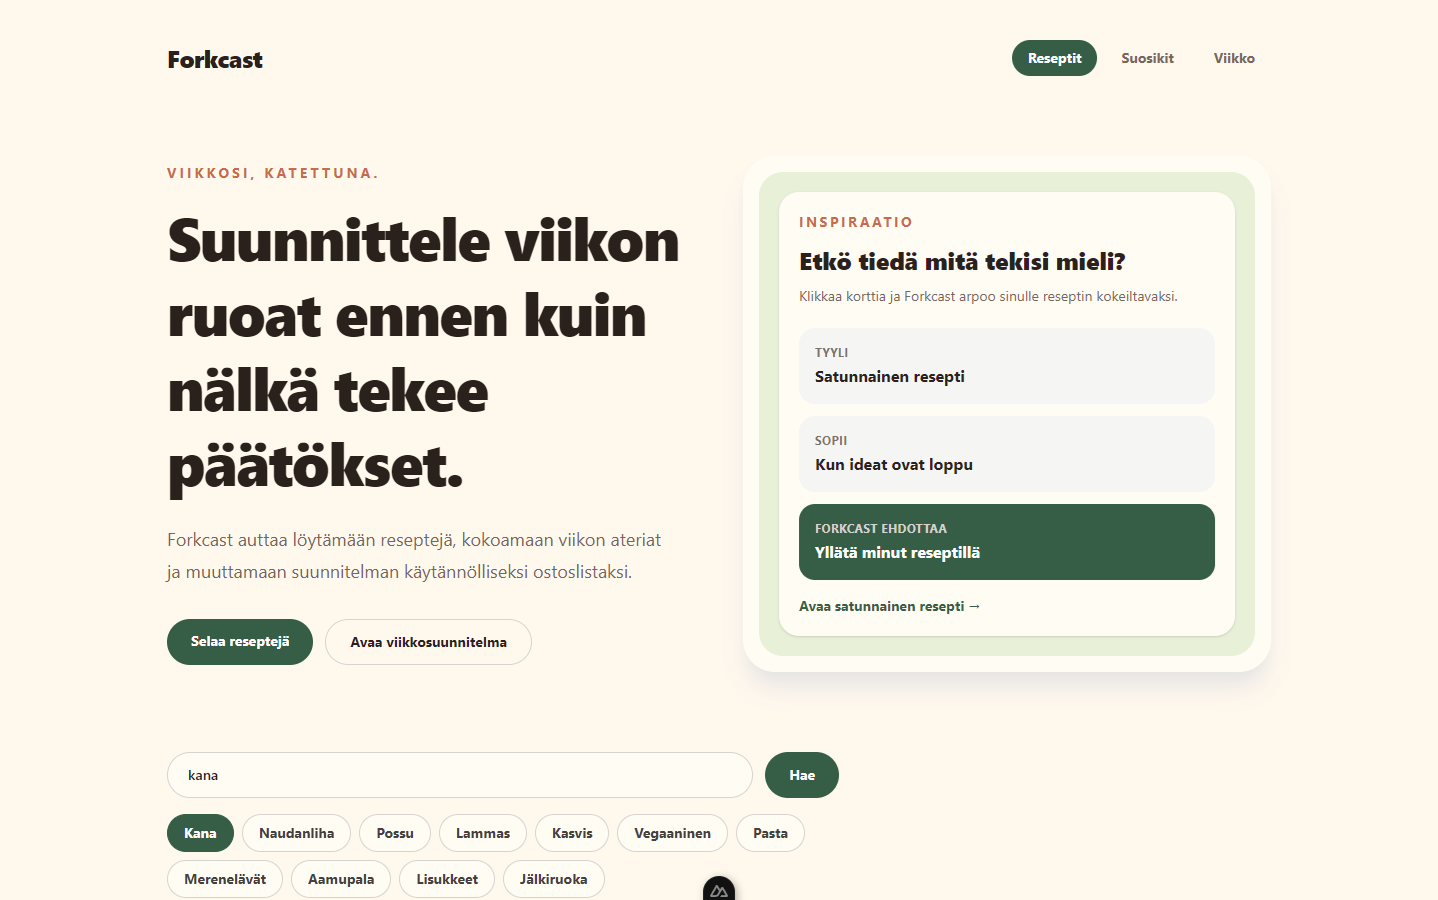
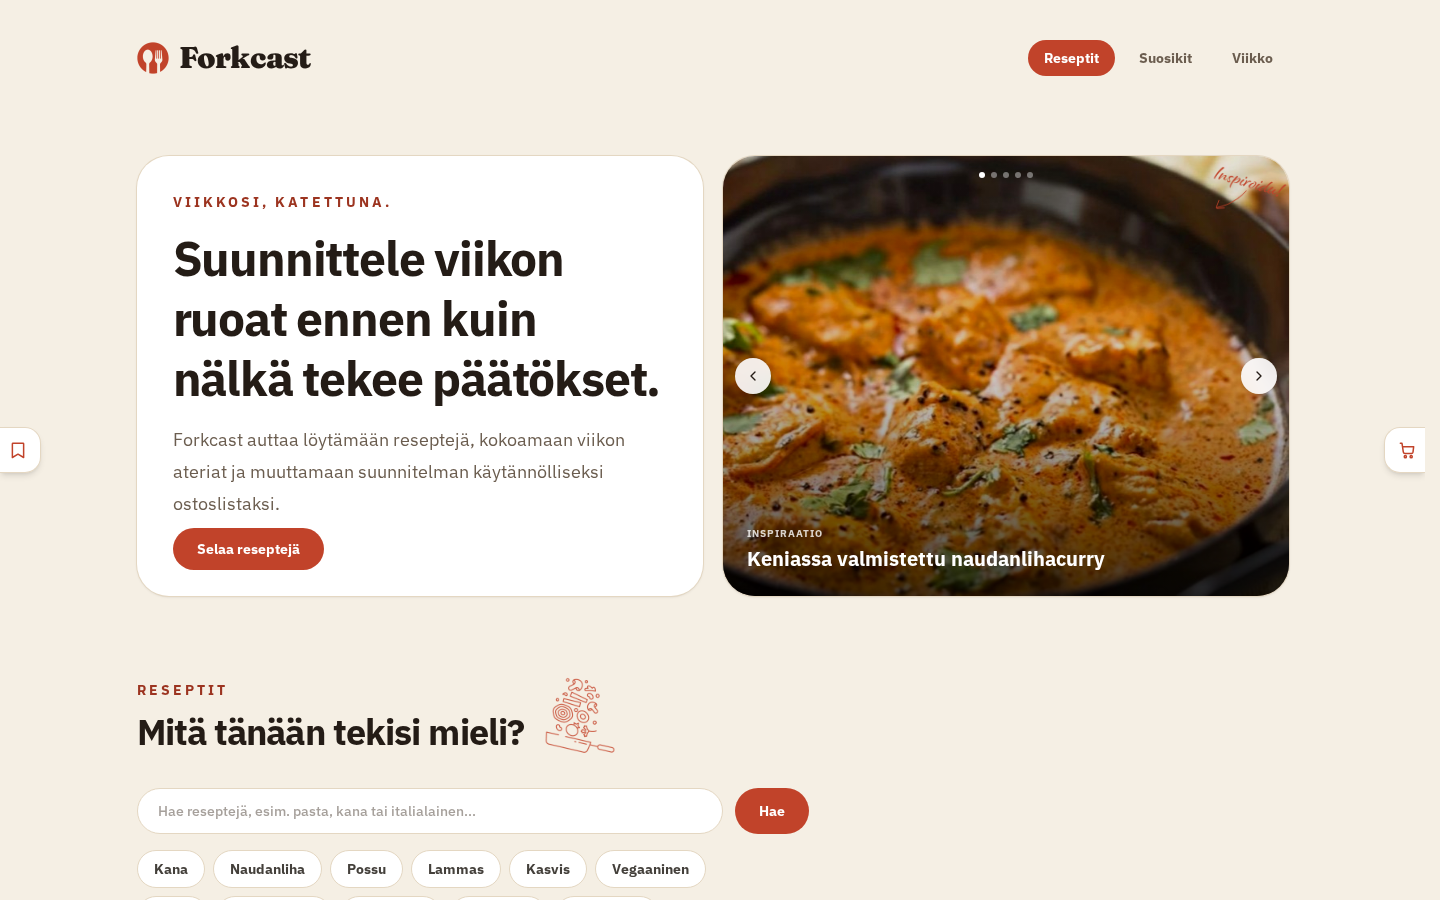
Update README to match the app's current architecture
Rewritten from an early localStorage/live-TheMealDB-API version of
the app - both moved to Supabase a while ago, and this hadn't been
touched since. Adds the features that shipped since (drafts, day
view, category search, clipboard/file export), fixes the architecture
section's stale composable/type names, and documents the Supabase env
setup. Also refreshed the screenshots, which still showed the old
homepage layout from before this session's reorder.

diff --git a/README.md b/README.md
@@ -14,16 +14,17 @@ Forkcast on viikkosuunnitteluun tarkoitettu resepti- ja ateriasuunnittelusovellu
 
 ## Ominaisuudet
 
-- Reseptien haku TheMealDB-rajapinnasta
-- Suomenkieliset hakusanat ja pikahaut
-- Reseptien kategorioiden ja alueiden käännökset suomeksi
-- Reseptin tarkempi näkymä aineksilla ja valmistusohjeilla
+- 790 reseptiä, kokonaan suomeksi (otsikot, ohjeet, ainesosat ja mittayksiköt)
+- Vapaa tekstihaku reseptin nimellä sekä suomenkieliset pikahaut/hakusanat
+- Kategoriapohjainen suodatus (esim. "Kana" + "Pasta"), joka perustuu reseptin oikeisiin ainesosiin, ei vain otsikkoon
+- Reseptin tarkempi näkymä ponnahdusikkunana tai omalla sivullaan, aineksilla ja valmistusohjeilla
 - Reseptien tallentaminen suosikkeihin
-- Reseptien lisääminen viikkosuunnitelmaan
-- Useamman reseptin lisääminen samaan ateriaslottiin
-- Ostoslistan muodostaminen suunnitelluista resepteistä
+- Reseptien lisääminen luonnoksiin ja sieltä raahaaminen viikkosuunnitelman päivälle/aterialle
+- Viikko- ja päivänäkymä suunnitelmalle, sekä koko viikon tai yksittäisen päivän tyhjennys
+- Ostoslistan muodostaminen suunnitelluista resepteistä, ryhmiteltynä kategorioihin (proteiinit, maitotuotteet, jne.)
+- Ostoslistan kopiointi leikepöydälle ja lataus tiedostona
 - Ostoslistan tuotteiden merkitseminen tehdyksi
-- Suosikkien, viikkosuunnitelman ja ostoslistan tilan tallennus selaimen localStorageen
+- Suosikkien, viikkosuunnitelman ja ostoslistan tila tallennettuna Supabaseen, sidottuna selaimen anonyymiin kirjautumiseen
 - Satunnainen resepti inspiraatiokortista
 
 ## Teknologiat
@@ -33,18 +34,20 @@ Forkcast on viikkosuunnitteluun tarkoitettu resepti- ja ateriasuunnittelusovellu
 - TypeScript
 - Tailwind CSS
 - Pinia
-- TheMealDB API
-- Vitest
+- Supabase (Postgres-tietokanta, autentikointi, reaaliaikainen REST-rajapinta)
+- Vitest + Vue Test Utils
 - ESLint
 
 ## Arkkitehtuuri
 
 Koodi on jaoteltu vastuualueittain, jotta sivut pysyvät kevyinä ja logiikka on testattavissa erillään käyttöliittymästä:
 
-- `app/composables/` — `useMealDbApi` kokoaa kaiken TheMealDB-rajapinnan tuntemisen yhteen paikkaan, jotta sivut eivät rakenna API-osoitteita itse
-- `app/types/` — jaetut TypeScript-tyypit sekä rajapinnan datalle (`mealdb.ts`) että sovelluksen omalle näyttömallille (`recipe.ts`)
-- `app/stores/` — Pinia-storet (`favorites`, `planner`), jotka sisältävät myös niistä johdetun tilan, kuten ostoslistan kokoamisen
-- `test/` — Vitest-testit puhtaalle logiikalle (käännökset, ostoslistan koostaminen)
+- `app/composables/` — `useRecipesApi` kokoaa kaiken reseptihaun ja -yksityiskohdat yhteen paikkaan; `useRecipeModal` ja `useBodyScrollLock` jaettua ponnahdusikkunalogiikkaa; `useCurrentUserId` anonyymin käyttäjän tunnisteen hakuun
+- `app/types/` — jaetut TypeScript-tyypit sekä Supabasen tietokantaskeemalle (`database.types.ts`) että sovelluksen omalle näyttömallille (`recipe.ts`)
+- `app/stores/` — Pinia-storet (`favorites`, `planner`, `recipeModal`), jotka sisältävät myös niistä johdetun tilan, kuten ostoslistan kokoamisen
+- `app/plugins/` — anonyymi Supabase-kirjautuminen, ponnahdusikkunan selainhistoria-integraatio ja kosketuslaitteiden raahaustuki
+- `supabase/migrations/` — tietokantaskeema: reseptit, suosikit, viikkosuunnitelma, kategoriapohjainen haku ja suomenkielinen tekstihaku
+- `test/` — Vitest-testit puhtaalle logiikalle (käännökset, ostoslistan koostaminen, storet) ja Vue Test Utils -komponenttitestit keskeisimmille käyttöliittymäosille
 
 ## Käyttöönotto
 
@@ -52,6 +55,12 @@ Asenna riippuvuudet:
 
 ```bash
 npm install
+```
+
+Kopioi `.env.example` tiedostoksi `.env` ja täytä oman Supabase-projektisi osoite ja anon-avain (Project Settings → API):
+
+```bash
+cp .env.example .env
 ```
 
 Käynnistä kehityspalvelin:
@@ -69,6 +78,6 @@ npm run lint    # ESLint
 npm run test    # Vitest
 ```
 
-### Rajapinta
+### Tietokanta
 
-Reseptidata haetaan [TheMealDB](https://www.themealdb.com/api.php) -rajapinnasta.
+Reseptit, suosikit, viikkosuunnitelma ja ostoslistan tila ovat Supabase-tietokannassa. Skeema ja siihen tehdyt muutokset löytyvät numeroituina tiedostoina hakemistosta `supabase/migrations/` — ne ajetaan järjestyksessä Supabasen SQL-editorista. Alkuperäinen reseptidata on tuotu kertaluontoisesti [TheMealDB](https://www.themealdb.com/api.php) -rajapinnasta ja käännetty suomeksi; sovellus itse ei enää kutsu TheMealDB:tä ajonaikaisesti.
